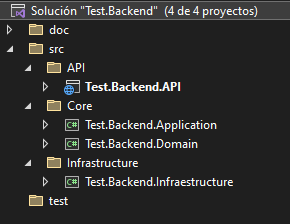
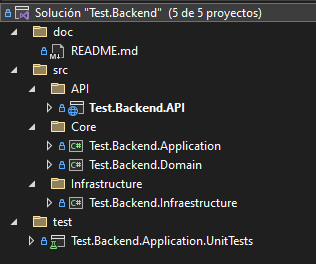
Se sube documentación.

diff --git a/README.md b/README.md
@@ -3,49 +3,58 @@
 ## Tabla de contenido
 1. [Informacion General](#informacion-general)
 2. [Tecnologias](#tecnologias)
-3. [Installation](#installation)
+3. [Configuracion](#configuracion)
 
 ### Informacion General
 
 ***
-Write down the general informations of your project. It is worth to always put a project status in the Readme file. This is where you can add it. 
+Proyecto creado NET 8 NET CORE con arquitectura `Clean Architecture` y patrones CQRS y MEDIATOR.
+
 ### Screenshot
+Se visualiza imagenes del proyecto N-capas aplicando la arquitectura:
+
 ![Image text](/doc/image/arquitecturaProyecto.png)
 ## Tecnologias
 ***
 La lista de tecnologias usada con el proyecto:
-* [C# Net](https://example.com): Version 8 
-* [Lazy Cache](https://example.com): Version 2.34
-* [Library name](https://example.com): Version 1234
-## Installation
+* [C# Net](https://dotnet.microsoft.com/es-es/download/dotnet/8.0) Version 8 
+* Base de datos SQL Server 2019 (Microsoft SQL Server 2019 15.0.2104.1)
+
+### Test.Backend.Api
+* [Serilog](https://www.nuget.org/packages/Serilog/3.1.2-dev-02097) Version 3.1.1
+* [Serilog.AspNetCore](https://www.nuget.org/packages/Serilog.AspNetCore) Version 8
+* [Serilog.Sinks.Console](https://www.nuget.org/packages/Serilog.Sinks.Console) Version 5.0.1
+* [Serilog.Sinks.File](https://www.nuget.org/packages/Serilog.Sinks.File/5.0.1-dev-00968) Version 5.0.1
+
+### Test.Backend.Application
+* [AutoMapper](https://www.nuget.org/packages/AutoMapper) Version 12.0.1
+* [AutoMapper.Extensions.Microsoft.DependencyInjection](https://www.nuget.org/packages/AutoMapper.Extensions.Microsoft.DependencyInjection) Version 12.0.1
+* [FluentValidation](https://www.nuget.org/packages/FluentValidation) Version 11.8.1
+* [FluentValidation.DependencyInjectionExtensions](https://www.nuget.org/packages/FluentValidation.DependencyInjectionExtensions) Version 11.8.1
+* [LazyCache](https://www.nuget.org/packages/LazyCache) Version 2.4.0
+* [LazyCache.AspNetCore](https://www.nuget.org/packages/LazyCache.AspNetCore) Version 2.4.0
+* [MediatR.Extensions.Microsoft.DependencyInjection](https://www.nuget.org/packages/MediatR.Extensions.Microsoft.DependencyInjection) Version 11.0.0
+* [Microsoft.Extensions.Logging.Abstractions](https://www.nuget.org/packages/Microsoft.Extensions.Logging.Abstractions) Version 8
+* [Newtonsoft.Json](https://www.nuget.org/packages/Newtonsoft.Json) Version 13.0.3
+
+### Test.Backend.Infraestructure
+* [Microsoft.EntityFrameworkCore.Design](https://www.nuget.org/packages/Microsoft.EntityFrameworkCore.Design) Version 8
+* [Microsoft.EntityFrameworkCore.SqlServer ](https://www.nuget.org/packages/Microsoft.EntityFrameworkCore.SqlServer) Version 8
+* [Microsoft.EntityFrameworkCore.Tools ](https://www.nuget.org/packages/Microsoft.EntityFrameworkCore.Tools) Version 8
+
+### Test.Backend.UnitTest
+* [AutoFixture](https://www.nuget.org/packages/AutoFixture/4.18.1) Version 4.18.1
+* [Microsoft.EntityFrameworkCore](https://www.nuget.org/packages/Microsoft.EntityFrameworkCore) Version 8
+* [Microsoft.EntityFrameworkCore.InMemory](https://www.nuget.org/packages/Microsoft.EntityFrameworkCore.InMemory) Version 8
+* [Microsoft.NET.Test.Sdk](https://www.nuget.org/packages/Microsoft.NET.Test.Sdk/17.8.0) Version 17.8.0
+* [Moq](https://www.nuget.org/packages/Moq) Version 4.20.70
+* [Shouldly](https://www.nuget.org/packages/Shouldly) Version 4.2.1
+* [Xunit](https://www.nuget.org/packages/xunit) Version 2.6.3
+* [Xunit.runner.visualstudio](https://www.nuget.org/packages/xunit.runner.visualstudio) Version 2.5.5
+
+
+## Configuracion
 ***
-A little intro about the installation. 
-```
-$ git clone https://example.com
-$ cd ../path/to/the/file
-$ npm install
-$ npm start
-```
-Side information: To use the application in a special environment use ```lorem ipsum``` to start
-## Collaboration
-***
-Give instructions on how to collaborate with your project.
-> Maybe you want to write a quote in this part. 
-> It should go over several rows?
-> This is how you do it.
-## FAQs
-***
-A list of frequently asked questions
-1. **This is a question in bold**
-Answer of the first question with _italic words_. 
-2. __Second question in bold__ 
-To answer this question we use an unordered list:
-* First point
-* Second Point
-* Third point
-3. **Third question in bold**
-Answer of the third question with *italic words*.
-4. **Fourth question in bold**
-| Headline 1 in the tablehead | Headline 2 in the tablehead | Headline 3 in the tablehead |
-|:--------------|:-------------:|--------------:|
-| text-align left | text-align center | text-align right |
+Ejecutar script en el motor de base de datos.
+[Descargar Scripts](/doc/Scripts_Create_Database.sql)
+
